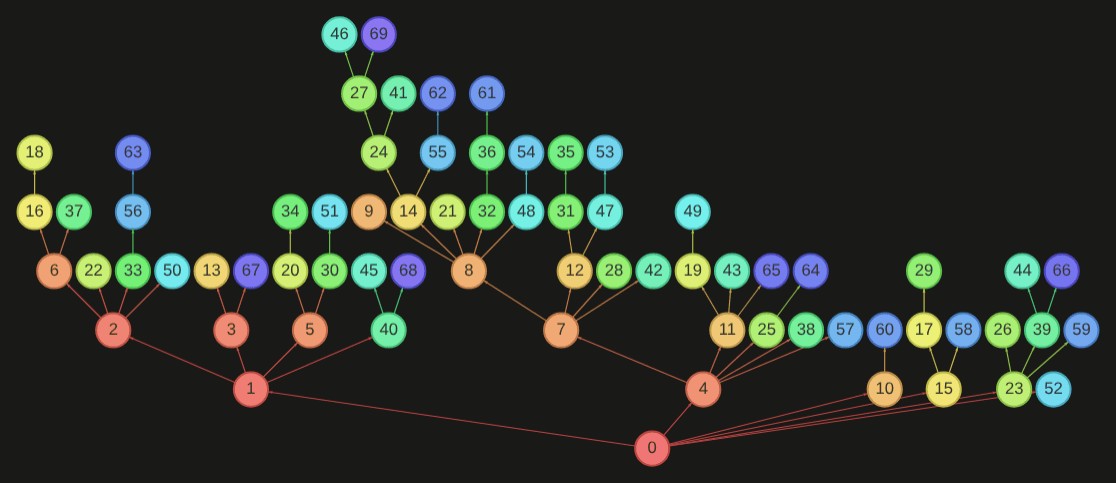
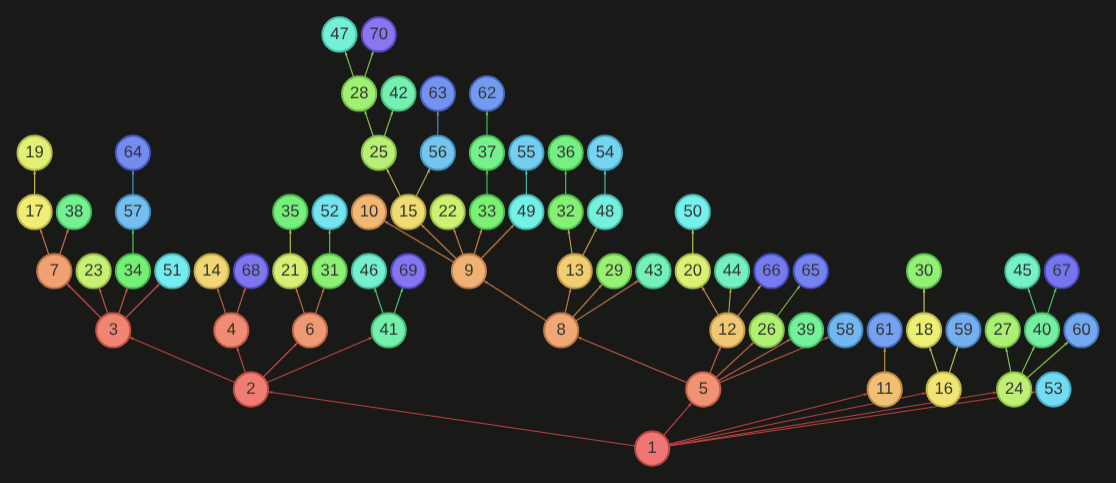
Rosary paper, beads counted from 1: Part III
- step 4c of docs/specs/0003-rosary-beads-counted-from-1.md
- Part III is the trial page: onyx as a noun, bold for the numbers of
  onyxes, C for the canonical recitation, tau for the address of an onyx
- Figure 12 in the new numbering

diff --git a/content/posts/2022-12-02-jane-s-infinite-rosary/index.md b/content/posts/2022-12-02-jane-s-infinite-rosary/index.md
@@ -894,187 +894,221 @@ part rests on Theorem 1.
 >
 > Sergio Leone, *Per qualche dollaro in più* (1965)
 
-Bold letters are for the onyx rosary, which lives on the black beads only.
-The example is the black bead $3$, reached through our bead $7$.
+Bold is for the onyx rosary, which lives on the black beads only: the
+names of its maps are bold, like the numbers that count the black beads
+since Section 1. The example is the black bead $4$, reached through our
+bead $8$.
 
-- **Canonical recitation** $\boldsymbol{C}(n)$: the recitation
-  $0 = a_0, a_1, \ldots, a_{h(n)} = n$ defined backwards by
+- **Canonical recitation** $C(n)$ to a bead $n$: the recitation
+  $1 = a_0, a_1, \ldots, a_{h(n)} = n$ defined backwards by
   $a_{i-1} = a_i\lambda$ if $a_i$ is white, and $a_{i-1} =$ the winner among
   $a_i\mu$, $a_i\nu$ (the one with the larger lambex) if $a_i$ is black. By
   Lemma 2 and Theorem 1 it is a minimal recitation to $n$. For the black
-  bead $3$ the candidates are $3\mu = 7$, with lambex $4$, and $3\nu = 8$,
-  with lambex $2$: bead $7$ wins, and
-  $\boldsymbol{C}(3) = 0, 1, 2, 4, 7, 3$.
-- **Onyx rosary**: the rosary obtained by removing all white beads. **Onyx
-  bead** $n$ is the black bead $3n$.
-- **Onyx predecessor**: for an onyx bead $n > 0$,
-  $\boldsymbol{\pi}(n) = \frac{1}{3}\sigma(w)$ where $w$ is the winner among
-  $3n\mu$, $3n\nu$. The black beads met by the canonical recitation to $3n$
-  are exactly $3n, 3\boldsymbol{\pi}(n), 3\boldsymbol{\pi}^2(n), \ldots, 0$.
-  For onyx bead $1$ (the black bead $3$) the winner is $7$, whose seed is
-  $0$: $\boldsymbol{\pi}(1) = 0$.
-- **Onyx ordering**: $m \boldsymbol{\preceq} n$ if and only if $3m$ appears in
-  the canonical recitation to $3n$, i.e. $m = \boldsymbol{\pi}^j(n)$ for some
-  $j \geq 0$.
-- **Onyx height**: $\boldsymbol{h}(n)$ is the number of black beads in
-  $\boldsymbol{C}(3n)$, minus one; i.e. $\boldsymbol{\pi}^{\boldsymbol{h}(n)}(n) = 0$.
-- **Onyx mu, nu**: $\boldsymbol{\mu}(n) = \frac{1}{3}\sigma(3n\mu)$ and
-  $\boldsymbol{\nu}(n) = \frac{1}{3}\sigma(3n\nu)$, so that
-  $\boldsymbol{\pi}(n) = \min(\boldsymbol{\mu}(n), \boldsymbol{\nu}(n))$ by
-  Theorem 1.
+  bead $4$ the candidates are $4\mu = 8$, with lambex $4$, and $4\nu = 9$,
+  with lambex $2$: bead $8$ wins, and
+  $C(4) = 1, 2, 3, 5, 8, 4$.
+- **Onyx rosary**: the rosary obtained by removing all white beads. Its
+  beads are called **onyxes**: onyx $\boldsymbol{n}$ is the black bead number
+  $\boldsymbol{n}$, that is bead $\boldsymbol{n}^\bullet$. So a black bead has
+  two numbers: its place in the rosary, written plain, and its rank among
+  the black beads, written bold. The onyxes $\mathbf{1}$, $\mathbf{2}$,
+  $\mathbf{3}$, $\mathbf{4}$ are the beads $1$, $4$, $7$, $10$.
+- **Onyx predecessor**: $\boldsymbol{\pi}(\boldsymbol{n})$ is the onyx met just
+  before onyx $\boldsymbol{n}$ on the canonical recitation. For instance the
+  canonical recitation to bead $10 = \mathbf{4}^\bullet$ is
+  $$C(10) = 1, 2, 3, 5, 8, 4, 6, 9, 14, 21, 10,$$
+  where the black beads are $1 = \mathbf{1}^\bullet$,
+  $4 = \mathbf{2}^\bullet$ and $10 = \mathbf{4}^\bullet$: so
+  $\boldsymbol{\pi}(\mathbf{4}) = \mathbf{2}$ and $\boldsymbol{\pi}(\mathbf{2}) = \mathbf{1}$.
+  (This is a shortest way to bead $10$, not Jane's reluctant recitation: at
+  bead $14$ reluctant Jane would move down to $7$.)
+  In general, for $\boldsymbol{n} \geq \mathbf{2}$, the last black bead before $\boldsymbol{n}^\bullet$ is
+  the seed of the winner $w$ among $\boldsymbol{n}^\bullet\mu$, $\boldsymbol{n}^\bullet\nu$, so
+  $\boldsymbol{\pi}(\boldsymbol{n})$ is defined by
+  $\boldsymbol{\pi}(\boldsymbol{n})^\bullet = \sigma(w)$. Above $10$ the candidates are
+  $20$, with seed $13$, and $21$, with seed $4$; bead $21$ wins and
+  $\boldsymbol{\pi}(\mathbf{4})^\bullet = 4$. The black beads met by the canonical
+  recitation to $\boldsymbol{n}^\bullet$ are exactly
+  $\boldsymbol{n}^\bullet, \boldsymbol{\pi}(\boldsymbol{n})^\bullet, \boldsymbol{\pi}^2(\boldsymbol{n})^\bullet, \ldots, 1$.
+- **Onyx ordering**: $\boldsymbol{m} \boldsymbol{\preceq} \boldsymbol{n}$ if and only if
+  $\boldsymbol{m}^\bullet$ appears in the canonical recitation to $\boldsymbol{n}^\bullet$, i.e.
+  $\boldsymbol{m} = \boldsymbol{\pi}^j(\boldsymbol{n})$ for some $j \geq 0$.
+- **Onyx height**: $\boldsymbol{h}(\boldsymbol{n})$ is the number of black beads in
+  $C(\boldsymbol{n}^\bullet)$, minus one; i.e.
+  $\boldsymbol{\pi}^{\boldsymbol{h}(\boldsymbol{n})}(\boldsymbol{n}) = \mathbf{1}$.
+- **Onyx mu, nu**: $\boldsymbol{\mu}(\boldsymbol{n})$ and $\boldsymbol{\nu}(\boldsymbol{n})$ are the
+  onyxes such that
+  $\boldsymbol{\mu}(\boldsymbol{n})^\bullet = \sigma(\boldsymbol{n}^\bullet\mu)$ and
+  $\boldsymbol{\nu}(\boldsymbol{n})^\bullet = \sigma(\boldsymbol{n}^\bullet\nu)$, so that
+  $\boldsymbol{\pi}(\boldsymbol{n}) = \min(\boldsymbol{\mu}(\boldsymbol{n}), \boldsymbol{\nu}(\boldsymbol{n}))$
+  by Theorem 1.
 
 ### 10. Jane's onyx rosary
 
 #### Onyx ordering
 
-**Proposition 2.** For every onyx bead $n > 0$,
-$\boldsymbol{\pi}(n) \leq 8n/9 < n$. Consequently the onyx ordering is a
-well-founded partial order with least element $0$, it is embedded in
-$(\mathbb{N}, \leq)$, i.e. $m \boldsymbol{\preceq} n \implies m \leq n$, and its
-Hasse diagram is a tree rooted at $0$ in which $n$ is at distance
-$\boldsymbol{h}(n)$ from the root.
+**Proposition 2.** For every onyx $\boldsymbol{n} \geq \mathbf{2}$,
+$\boldsymbol{\pi}(\boldsymbol{n}) \leq (8\boldsymbol{n}+1)/9 < \boldsymbol{n}$. Consequently the onyx ordering
+is a well-founded partial order with least element $\mathbf{1}$, it agrees with the
+usual order of the numbers, i.e.
+$\boldsymbol{m} \boldsymbol{\preceq} \boldsymbol{n} \implies \boldsymbol{m} \leq \boldsymbol{n}$, and
+its Hasse diagram is a tree rooted at $\mathbf{1}$ in which $\boldsymbol{n}$ is at distance
+$\boldsymbol{h}(\boldsymbol{n})$ from the root.
 
-*Proof.* With the notations of Theorem 1, the winner's seed is at most
-$b_{e+1}\lambda = \frac{2}{3}a_{e+1}$ if $\nu$ wins, and at most
-$a_{e+1}\lambda \le \frac{2}{3}a_{e+1}$ if $\mu$ wins. Since
-$a_{e+1} \leq a_1 = 4n$, this gives $\sigma(w) \leq \frac{8n}{3}$. $\quad\Box$
+*Proof.* With the notations of Theorem 1, the winner is $b_{e+1}$ or
+$b_{e+1} - 1$, and it is white, so its seed is at most its image by
+$\lambda$, which is at most $\frac{1}{3}(2b_{e+1} - 1)$ in both cases. Since
+$b_{e+1} \leq b_1 = 4\boldsymbol{n} - 2$, this gives
+$3\boldsymbol{\pi}(\boldsymbol{n}) - 2 = \sigma(w) \leq \frac{1}{3}(8\boldsymbol{n} - 5)$. $\quad\Box$
 
-[![Figure 12](images/figure-12.png)](https://blog.atlant.is/figures/jane-s-rosary/onyx-ordering.html?n=1000&interactive=yes "live")
+(The bound is attained: $\boldsymbol{\pi}(\mathbf{10}) = \mathbf{9}$.)
 
-> Figure 12: the onyx tree on the first $70$ onyx beads, with its root, bead $0$, at the bottom. Each bead hangs from its onyx predecessor. Bead $0$ already has six children here ($1$, $4$, $10$, $15$, $23$ and $52$), and Theorem 4 says that more will keep coming, for every bead. Click the picture for the tree on $1\,000$ beads ([live version](https://blog.atlant.is/figures/jane-s-rosary/onyx-ordering.html?n=1000&interactive=yes)).
+[![Figure 12](images/figure-12.png)](https://blog.atlant.is/figures/jane-s-rosary/onyx-ordering.html?n=1000&interactive=yes&first=1 "live")
 
-We say that $n$ **covers** $m$ when $\boldsymbol{\pi}(n) = m$.
+> Figure 12: the onyx tree on the first $70$ onyxes, with its root, onyx $\mathbf{1}$, at the bottom. Each onyx hangs from its onyx predecessor. Onyx $\mathbf{1}$ already has six children here ($\mathbf{2}$, $\mathbf{5}$, $\mathbf{11}$, $\mathbf{16}$, $\mathbf{24}$ and $\mathbf{53}$), and Theorem 4 says that more will keep coming, for every onyx. Click the picture for the tree on $1\,000$ onyxes ([live version](https://blog.atlant.is/figures/jane-s-rosary/onyx-ordering.html?n=1000&interactive=yes&first=1)).
 
-#### Theorem 4: every onyx bead has infinitely many covers
+We say that $\boldsymbol{n}$ **covers** $\boldsymbol{m}$ when $\boldsymbol{\pi}(\boldsymbol{n}) = \boldsymbol{m}$.
 
-*The idea.* The covers of the onyx bead $m$ are found along the up-chain of
-the black bead $3m$. Whenever a bead $k$ of that chain sits just above a
-black bead, $kD = 3n$, it is one of the two candidates for the last step down
-to $3n$; and if it wins, $n$ covers $m$. Two things are needed. First, that
-the chain passes just above a black bead infinitely often: this happens each
-time the parity changes along the chain (Lemma 6), and it changes forever
-(Lemma 7). Second, that $k$ loses only finitely often. By Theorem 1, $k$ can
-only lose to a neighbor $k \pm 1$ with a smaller seed: our chain would then
-run side by side with one of the finitely many chains that start lower. And
-two up-chains run side by side only finitely many times (Lemma 8).
+#### Theorem 4: every onyx has infinitely many covers
 
-**Lemma 6 (parity).** For every bead $n$: $\ 3 \mid nUD$ if and only if $n$ and
-$nU$ have *different* parities.
+*The idea.* The covers of the onyx $\boldsymbol{m}$ are found along the up-chain of
+the black bead $\boldsymbol{m}^\bullet$. Whenever a bead $k$ of that chain sits just
+above a black bead, $kD = \boldsymbol{n}^\bullet$, it is one of the two candidates for
+the last step down to $\boldsymbol{n}^\bullet$; and if it wins, $\boldsymbol{n}$ covers $\boldsymbol{m}$. Two
+things are needed. First, that the chain passes just above a black bead
+infinitely often: this happens each time the parity changes along the chain
+(Lemma 6), and it changes forever (Lemma 7). Second, that $k$ loses only
+finitely often. By Theorem 1, $k$ can only lose to a neighbor $k \pm 1$ with
+a smaller seed: our chain would then run side by side with one of the
+finitely many chains that start lower. And two up-chains run side by side
+only finitely many times (Lemma 8).
+
+The three lemmas are about beads, not onyxes: nothing in them is bold.
+
+**Lemma 6 (parity).** For every bead $n$: $\ nUD$ is black if and only if $n$
+and $nU$ have *different* parities.
 
 *Proof.* Check the four classes of $n$ modulo $4$:
-$(4j)UD = 3j$, $(4j+1)UD = 3j$, $(4j+2)UD = 3j+1$, $(4j+3)UD = 3j+2$, while
-$(4j)U = 6j+1$, $(4j+1)U = 6j+2$, $(4j+2)U = 6j+4$, $(4j+3)U = 6j+5$. $\quad\Box$
+$(4j)UD = 3j$, $(4j+1)UD = 3j+1$, $(4j+2)UD = 3j+1$, $(4j+3)UD = 3j+2$, while
+$(4j)U = 6j$, $(4j+1)U = 6j+2$, $(4j+2)U = 6j+3$, $(4j+3)U = 6j+5$. $\quad\Box$
 
 **Lemma 7 (parity changes).** Along any up-chain $n, nU, nU^2, \ldots$ the
 parity changes infinitely often. More precisely, $n, nU, \ldots, nU^{r-1}$ are
-all even if and only if $2^r \mid n+2$, and all odd if and only if
+all even if and only if $2^r \mid n$, and all odd if and only if
 $2^r \mid n+1$.
 
-*Proof.* If $n$ is even then $nU + 2 = \frac{3}{2}(n+2)$; if $n$ is odd then
+*Proof.* If $n$ is even then $nU = \frac{3}{2}n$; if $n$ is odd then
 $nU + 1 = \frac{3}{2}(n+1)$. Iterate. $\quad\Box$
 
 **Lemma 8 (neighboring up-chains).** Let $\uparrow\!(m)$ and $\uparrow\!(n)$ be
 two disjoint up-chains. Then $\uparrow\!(n) \cap (\uparrow\!(m) + 1)$ is finite.
 More precisely, if it is non-empty and $a$ is the least element of
 $\uparrow\!(m)$ such that $a + 1 \in\ \uparrow\!(n)$, then it has exactly
-$1 + v_2(a+2)$ elements, where $v_2$ is the 2-adic valuation.
+$1 + v_2(a+1)$ elements, where $v_2$ is the 2-adic valuation.
 
 *Proof.* Put $a_r = aU^r$ and $b_r = (a+1)U^r$. Since the chains are disjoint,
-$a \geq 2$ (otherwise $a + 1 = aU$), hence $a < a+1 < aU$ and, $U$ being
+$a \geq 3$ (otherwise $a + 1 = aU$), hence $a < a+1 < aU$ and, $U$ being
 strictly increasing, $a_r < b_r < a_{r+1}$ for all $r$. So the only element of
 $\uparrow\!(m) + 1$ that $b_r$ can be equal to is $a_r + 1$. Now
 $b_{r+1} - a_{r+1} = (b_r - a_r) + L(b_r) - L(a_r)$ is non-decreasing in $r$,
-and when $b_r - a_r = 1$ it remains equal to $1$ if and only if $a_r$ is even.
-By Lemma 7 this happens exactly for $r \leq v_2(a+2)$. $\quad\Box$
+and when $b_r - a_r = 1$ it remains equal to $1$ if and only if $a_r$ is odd.
+By Lemma 7 this happens exactly for $r \leq v_2(a+1)$. $\quad\Box$
 
 (Two up-chains can keep each other company for a while:
-$\uparrow\!(255) \cap (\uparrow\!(21) + 1)$ has 9 elements,
-$255, 383, 575, \ldots, 6560$. Only finiteness matters below.)
+$\uparrow\!(256) \cap (\uparrow\!(22) + 1)$ has 9 elements,
+$2^8,\ 2^7 3,\ 2^6 3^2,\ \ldots,\ 3^8$. Only finiteness matters below.)
 
-**Theorem 4.** Every onyx bead has infinitely many covers.
+**Theorem 4.** Every onyx has infinitely many covers.
 
-*Proof.* Fix an onyx bead $m$ and let
+*Proof.* Fix an onyx $\boldsymbol{m}$ and let
 
-$$S_m = \{k \in\ \uparrow\!(3m) \mid kD \text{ is black and } kD > 0\}.$$
+$$S = \{k \in\ \uparrow\!(\boldsymbol{m}^\bullet) \mid kD \text{ is black and } kD > 1\}.$$
 
-By Lemmas 6 and 7, $S_m$ is infinite. For $k \in S_m$, write $kD = 3n$; then
-$\{k, k'\} = \{3n\mu, 3n\nu\}$ where the *sibling* $k' = k \pm 1$ is white. By
-Theorem 1, $k$ is the winner (so that $\boldsymbol{\pi}(n) = m$) if and only if
-$\sigma(k') > \sigma(k) = 3m$. Suppose not: then $k' \in\ \uparrow\!(3j)$ for
-some $j < m$, and therefore
+By Lemmas 6 and 7, $S$ is infinite. For $k \in S$, write
+$kD = \boldsymbol{n}^\bullet$; then
+$\{k, k'\} = \{\boldsymbol{n}^\bullet\mu, \boldsymbol{n}^\bullet\nu\}$ where the
+*sibling* $k' = k \pm 1$ is white. By Theorem 1, $k$ is the winner (so that
+$\boldsymbol{\pi}(\boldsymbol{n}) = \boldsymbol{m}$) if and only if
+$\sigma(k') > \sigma(k) = \boldsymbol{m}^\bullet$.
+Suppose not: then $k' \in\ \uparrow\!(\boldsymbol{j}^\bullet)$ for some onyx
+$\boldsymbol{j} < \boldsymbol{m}$, and therefore
 
-$$k \in\ \uparrow\!(3m) \cap \big((\uparrow\!(3j) + 1) \cup (\uparrow\!(3j) - 1)\big).$$
+$$k \in\ \uparrow\!(\boldsymbol{m}^\bullet) \cap \big((\uparrow\!(\boldsymbol{j}^\bullet) + 1) \cup (\uparrow\!(\boldsymbol{j}^\bullet) - 1)\big).$$
 
 By Lemma 8 (applied twice, exchanging the roles of the two chains for the
-"$-1$" part), this set is finite for each of the finitely many $j < m$. So all
-but finitely many $k \in S_m$ are winners, and distinct $k$ give distinct
-onyx beads $n = kD/3$ covering $m$. $\quad\Box$
+"$-1$" part), this set is finite for each of the finitely many
+$\boldsymbol{j} < \boldsymbol{m}$. So all but finitely many $k \in S$ are winners, and distinct
+$k$ give distinct black beads $kD = \boldsymbol{n}^\bullet$, hence distinct onyxes
+$\boldsymbol{n}$ covering $\boldsymbol{m}$. $\quad\Box$
 
 *Used:* Theorem 1 and Lemmas 6, 7 and 8.
 
-#### Corollary: the canonical onyx mapping
+#### Corollary: the address of an onyx
 
-Order the covers of each onyx bead increasingly and number them from $0$: let
-$\boldsymbol{s}_n(k)$ be the $k$-th cover of $n$, and for $n > 0$ let
-$\boldsymbol{\iota}(n)$ be the index of $n$ among the covers of
-$\boldsymbol{\pi}(n)$. For instance $\boldsymbol{s}_0(2) = 10$,
-$\boldsymbol{s}_1(2) = 5$ and $\boldsymbol{\iota}(38) = 3$ (the covers of $0$
-are $1, 4, 10, 15, 23, 52, \ldots$, those of $1$ are $2, 3, 5, 40, 91, \ldots$,
-and those of $4$ are $7, 11, 25, 38, \ldots$).
+Order the covers of each onyx increasingly and number them from $1$: let
+$\boldsymbol{s}_{\boldsymbol{n}}(k)$ be the $k$-th cover of $\boldsymbol{n}$, and for
+$\boldsymbol{n} \geq \mathbf{2}$ let $\boldsymbol{\iota}(\boldsymbol{n})$ be the rank of $\boldsymbol{n}$ among the
+covers of $\boldsymbol{\pi}(\boldsymbol{n})$. Ranks are plain numbers, not onyxes.
+For instance $\boldsymbol{s}_{\mathbf{1}}(3) = \mathbf{11}$,
+$\boldsymbol{s}_{\mathbf{2}}(3) = \mathbf{6}$ and $\boldsymbol{\iota}(\mathbf{39}) = 4$ (the covers
+of $\mathbf{1}$ are $\mathbf{2}, \mathbf{5}, \mathbf{11}, \mathbf{16}, \mathbf{24}, \mathbf{53}, \ldots$, those of $\mathbf{2}$ are
+$\mathbf{3}, \mathbf{4}, \mathbf{6}, \mathbf{41}, \mathbf{92}, \ldots$, and those of $\mathbf{5}$ are
+$\mathbf{8}, \mathbf{12}, \mathbf{26}, \mathbf{39}, \ldots$).
 
-The **canonical onyx mapping** sends $n$ to its address in the tree, read from
-the root:
+The **address** $\boldsymbol{\tau}(\boldsymbol{n})$ of an onyx $\boldsymbol{n}$ tells where it
+sits in the tree, read from the root (earlier versions called
+$\boldsymbol{\tau}$ the canonical onyx mapping):
 
-$$C(n) = \Big(\boldsymbol{\iota}\big(\boldsymbol{\pi}^{\boldsymbol{h}(n)-1}(n)\big),\ \ldots,\ \boldsymbol{\iota}\big(\boldsymbol{\pi}(n)\big),\ \boldsymbol{\iota}(n)\Big) \in \mathbb{N}^{<\omega}.$$
+$$\boldsymbol{\tau}(\boldsymbol{n}) = \Big(\boldsymbol{\iota}\big(\boldsymbol{\pi}^{\boldsymbol{h}(\boldsymbol{n})-1}(\boldsymbol{n})\big),\ \ldots,\ \boldsymbol{\iota}\big(\boldsymbol{\pi}(\boldsymbol{n})\big),\ \boldsymbol{\iota}(\boldsymbol{n})\Big) \in (\mathbb{N}^*)^{<\omega}.$$
 
-**Corollary 2.** $C$ is a bijection from $\mathbb{N}$ onto the set
-$\mathbb{N}^{<\omega}$ of finite sequences of natural numbers, and
-$m \boldsymbol{\preceq} n$ if and only if $C(m)$ is a prefix of $C(n)$. In
-other words, the onyx ordering is isomorphic to the full infinitely branching
-tree.
+**Corollary 2.** $\boldsymbol{\tau}$ is a bijection from the onyxes onto the set
+$(\mathbb{N}^*)^{<\omega}$ of finite sequences of positive integers, and
+$\boldsymbol{m} \boldsymbol{\preceq} \boldsymbol{n}$ if and only if $\boldsymbol{\tau}(\boldsymbol{m})$ is a prefix of
+$\boldsymbol{\tau}(\boldsymbol{n})$. In other words, the onyx ordering is isomorphic to the full
+infinitely branching tree.
 
 *Proof.* Injectivity and the prefix property hold in any rooted tree;
 surjectivity is Theorem 4. $\quad\Box$
 
-| $n$ | 0 | 1 | 2 | 3 | 4 | 5 | 6 | 7 | 8 | 9 | 10 |
+| $\boldsymbol{n}$ | $\mathbf{1}$ | $\mathbf{2}$ | $\mathbf{3}$ | $\mathbf{4}$ | $\mathbf{5}$ | $\mathbf{6}$ | $\mathbf{7}$ | $\mathbf{8}$ | $\mathbf{9}$ | $\mathbf{10}$ | $\mathbf{11}$ |
 |---|---|---|---|---|---|---|---|---|---|---|---|
-| $C(n)$ | $()$ | $(0)$ | $(0,0)$ | $(0,1)$ | $(1)$ | $(0,2)$ | $(0,0,0)$ | $(1,0)$ | $(1,0,0)$ | $(1,0,0,0)$ | $(2)$ |
+| $\boldsymbol{\tau}(\boldsymbol{n})$ | $()$ | $(1)$ | $(1,1)$ | $(1,2)$ | $(2)$ | $(1,3)$ | $(1,1,1)$ | $(2,1)$ | $(2,1,1)$ | $(2,1,1,1)$ | $(3)$ |
 
 #### Jane's foraging sequence
 
 Jane's foraging sequence $(\boldsymbol{\Phi}(i))_{i \ge 0}$ is the sequence of
-onyx beads obtained from the reluctant recitation by replacing each $\rho(i)$
-with $\frac{1}{3}\sigma(\rho(i))$ and then removing direct repetitions:
+onyxes obtained from the reluctant recitation by replacing each $\rho(i)$
+with the onyx of its seed (the $\boldsymbol{n}$ such that
+$\sigma(\rho(i)) = \boldsymbol{n}^\bullet$) and then removing direct repetitions:
 
-$$0, 1, 2, 4, 3, 13, 4, 7, 5, 0, 10, 40, 30, 4, 11, 8, 6, 16, 12, 9, 1, 5, 20, 15, \ldots$$
+$$\mathbf{1}, \mathbf{2}, \mathbf{3}, \mathbf{5}, \mathbf{4}, \mathbf{14}, \mathbf{5}, \mathbf{8}, \mathbf{6}, \mathbf{1}, \mathbf{11}, \mathbf{41}, \mathbf{31}, \mathbf{5}, \mathbf{12}, \mathbf{9}, \mathbf{7}, \mathbf{17}, \mathbf{13}, \mathbf{10}, \mathbf{2}, \mathbf{6}, \mathbf{21}, \mathbf{16}, \ldots$$
 
 **Corollary 3.** The foraging sequence is infinite and takes every value
 infinitely often.
 
 *Proof.* By Theorem 3 Jane tells every bead of every up-chain, so she is in
-$\uparrow\!(3m)$ at infinitely many times, and she is outside of it at
-infinitely many times. Hence $\frac{1}{3}\sigma(\rho(i))$ takes the value $m$
-on infinitely many maximal runs. $\quad\Box$
+$\uparrow\!(\boldsymbol{m}^\bullet)$ at infinitely many times, and she is outside of it
+at infinitely many times. Hence the onyx of $\sigma(\rho(i))$ takes the
+value $\boldsymbol{m}$ on infinitely many maximal runs. $\quad\Box$
 
 ```python
 import itertools
 
 def Phi(n: int) -> int:
     if n < 0: raise ValueError("argument must be nonnegative")
-    visited = {0}
-    bead = 0
-    res = 0
+    visited = {1}
+    bead = 1
+    res = 1
     for _ in itertools.count():
         if n == 0: return res
-        label = 1 + bead//2
-        if bead > 0 and bead - label not in visited:
-            bead -= label         # moving down
+        if bead > 1 and bead//2 not in visited:
+            bead //= 2               # moving down
         else:
-            bead += label         # moving up
+            bead += (bead + 1)//2    # moving up
         visited.add(bead)
         nxt = bead
-        while nxt % 3: nxt = (2*nxt)//3   # compute the seed
-        nxt //= 3
+        while nxt % 3 != 1: nxt = (2*nxt)//3   # compute the seed
+        nxt = (nxt + 2)//3                     # its rank among black beads
         if nxt != res:
             res = nxt
             n -= 1
